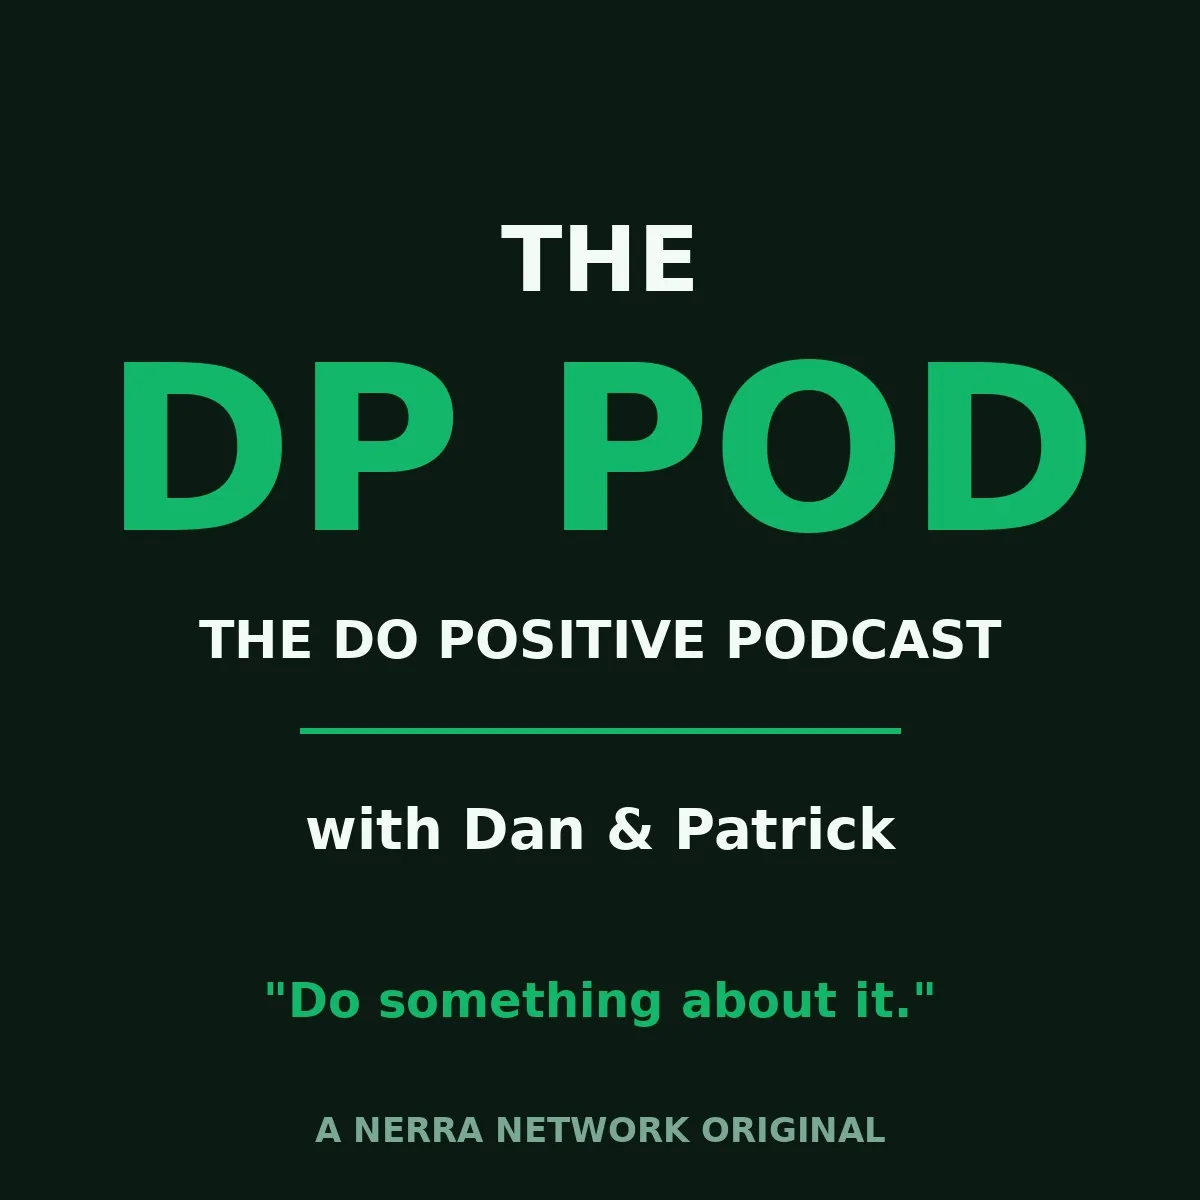
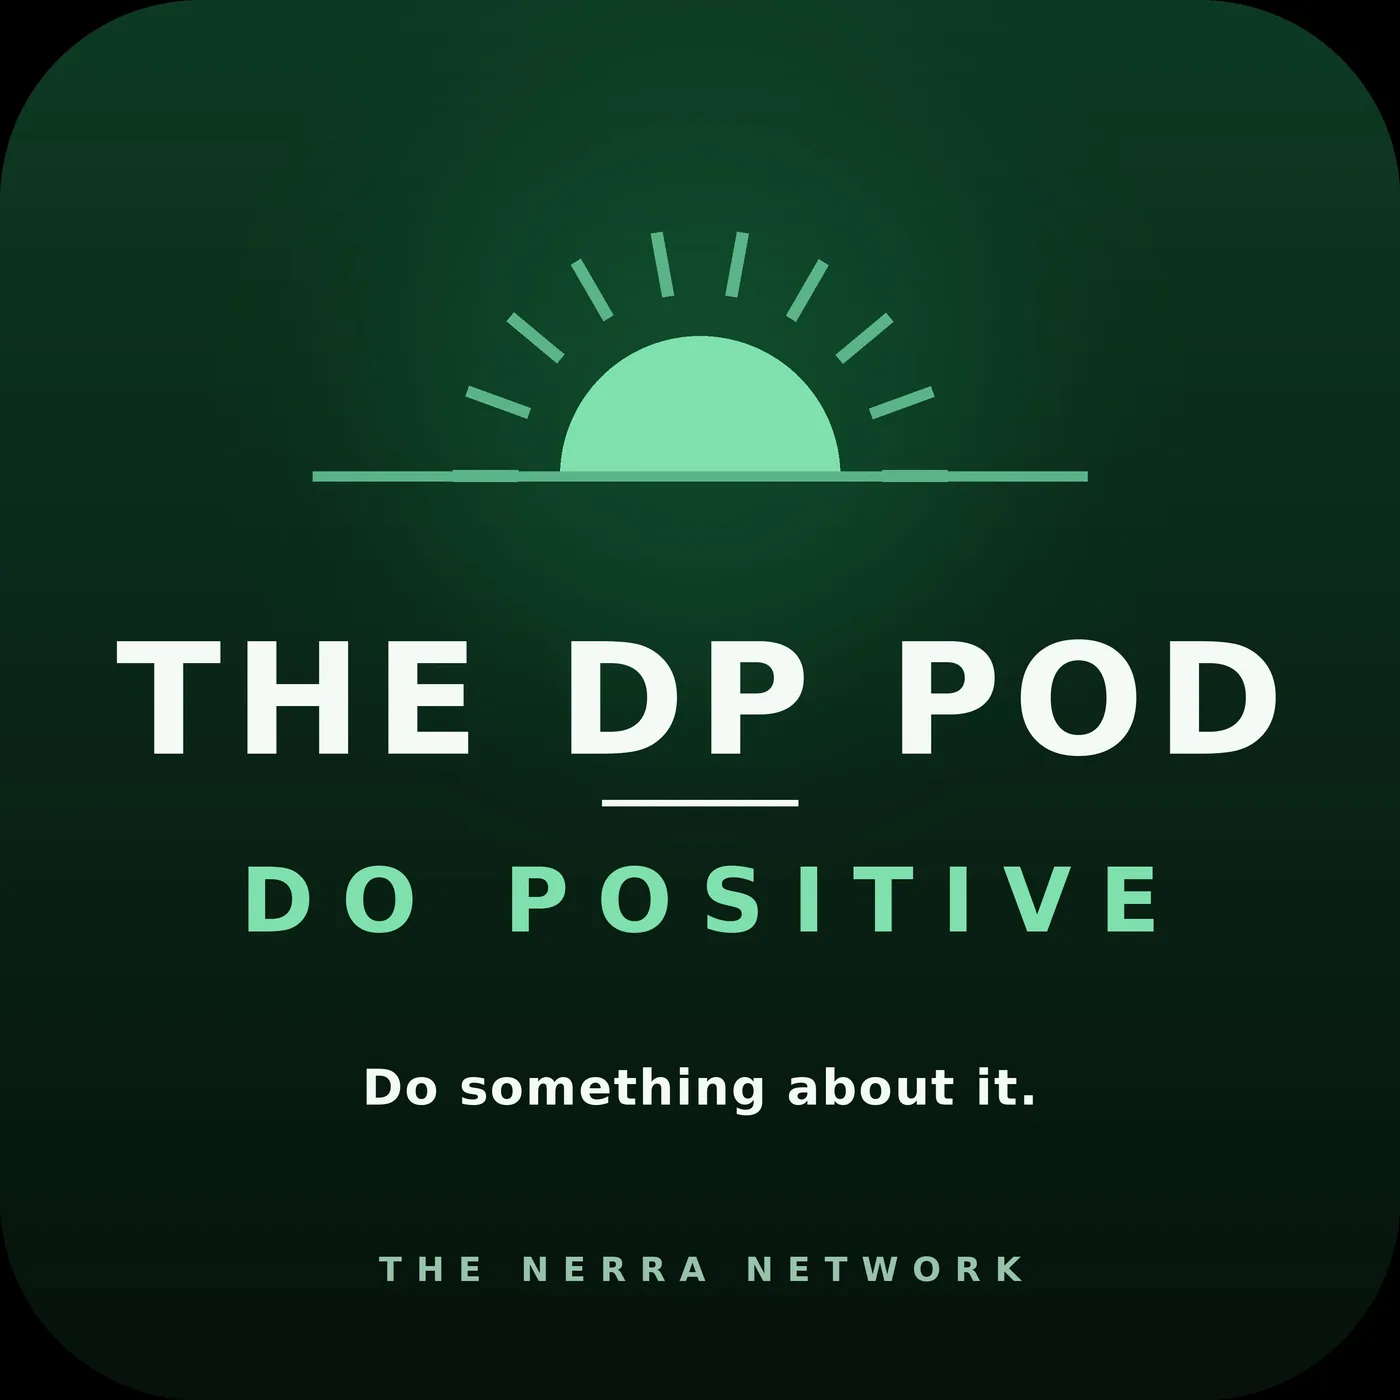
DP Pod: patron-tier monetization + Nerra house-style cover art
Monetization (operator decisions, July 2 2026 — addendum in
docs/dp_pod_market_assessment_2026_07.md): the "free forever" promise is
dropped everywhere (hero eyebrow, membership card chip, pledge fine
print, charter tenet, hero_tagline) — Nerra has to make money and
forever-free forecloses it. Replacement is the belonging-not-access
patron model the research verified (MaxFun co-op, Defector 95%-sub
revenue, RtbC wall+card at $1/mo):

- New Patrons section: Member (free) / Patron $5/mo (Patron Wall,
  numbered patron card, monthly on-air patron roll) / Founding Patron
  $15/mo (locked founding number, monthly Lever vote, first access).
- Nothing paywalled, stated plainly: "Patronage is support, not access"
  and "100% funds the show and the network — that's the honest number."
- Payment rail pluggable via a new `patron_url` registry field
  (shows/network_meta.yaml); empty renders a "Patron doors open with
  Episode 1" placeholder until the operator wires Buttondown paid subs /
  Stripe link / Patreon.
- Charter tenet reworded "Free forever" -> "Free to join"; the kept
  promise is "never by paywall".

Branding: cover art redrawn to the Nerra house style (squircle mask,
brand-green vertical gradient, flat sunrise motif, white "THE DP POD" +
accent "DO POSITIVE", tagline, THE NERRA NETWORK footer — same family
as the SpaceX Daily / First Principles Daily covers), 3000x3000 + webp
variants regenerated; homepage card, nav, og images, and future episode
[…]

diff --git a/thedppod.html b/thedppod.html
@@ -169,6 +169,39 @@
   .dpc-wall .member b { color:var(--dp-gold); font-weight:700; margin-right:0.4rem; }
   .dpc-wall .member.you { border-style:dashed; color:#7ba893; }
 
+  /* Patron tiers */
+  .dpc-tiers { display:grid; grid-template-columns:repeat(3,1fr); gap:1.1rem; margin-top:2rem; }
+  .dpc-tier { background:rgba(18,183,106,0.05); border:1px solid var(--dp-line);
+    border-radius:18px; padding:1.7rem 1.5rem; display:flex; flex-direction:column; gap:0.9rem;
+    text-align:left; }
+  .dpc-tier--featured { border-color:rgba(232,196,104,0.5);
+    background:linear-gradient(180deg, rgba(232,196,104,0.08), rgba(18,183,106,0.05));
+    position:relative; }
+  .dpc-tier--featured .tier-flag { position:absolute; top:-0.7rem; left:50%;
+    transform:translateX(-50%); background:var(--dp-gold); color:#241b06; font-size:0.66rem;
+    font-weight:700; letter-spacing:0.1em; text-transform:uppercase; padding:0.25rem 0.8rem;
+    border-radius:999px; white-space:nowrap; }
+  .dpc-tier .tier-name { font-size:0.72rem; letter-spacing:0.14em; text-transform:uppercase;
+    color:var(--dp-green); font-weight:700; }
+  .dpc-tier--featured .tier-name { color:var(--dp-gold); }
+  .dpc-tier .tier-price { font-family:'Source Serif 4',Georgia,serif; font-size:1.9rem;
+    color:var(--dp-cream); }
+  .dpc-tier .tier-price small { font-size:0.85rem; color:var(--nn-text-muted,#9aa7b8); }
+  .dpc-tier ul { margin:0; padding:0; list-style:none; flex:1; display:flex;
+    flex-direction:column; gap:0.55rem; }
+  .dpc-tier li { font-size:0.88rem; color:var(--nn-text-muted,#9aa7b8); line-height:1.5;
+    padding-left:1.3rem; position:relative; }
+  .dpc-tier li::before { content:"✓"; position:absolute; left:0; color:var(--dp-green);
+    font-weight:700; }
+  .dpc-tier--featured li::before { color:var(--dp-gold); }
+  .dpc-tier .tier-cta { display:block; text-align:center; padding:0.75rem 1rem;
+    border-radius:999px; font-weight:700; font-size:0.92rem; text-decoration:none; }
+  .dpc-tier .tier-cta--free { border:1px solid var(--dp-line); color:var(--dp-cream); }
+  .dpc-tier .tier-cta--paid { background:var(--dp-green); color:#06130b; }
+  .dpc-tier .tier-cta--soon { border:1px dashed rgba(232,196,104,0.45); color:#c9b98a;
+    cursor:default; }
+  .dpc-tiers-fine { margin-top:1.4rem; font-size:0.85rem; color:#7ba893; }
+
   /* Lever board */
   .dpc-levers { display:grid; grid-template-columns:repeat(auto-fit,minmax(280px,1fr));
     gap:1.1rem; margin-top:2rem; }
@@ -233,7 +266,7 @@
   @media (max-width: 860px) {
     .dpc-hero-inner { grid-template-columns:1fr; }
     .dpc-membercard { margin:0 auto; transform:rotate(0); }
-    .dpc-steps, .dpc-grammar, .dpc-hosts { grid-template-columns:1fr; }
+    .dpc-steps, .dpc-grammar, .dpc-hosts, .dpc-tiers { grid-template-columns:1fr; }
     .dpc-ep { flex-wrap:wrap; }
   }
 </style>
@@ -657,7 +690,7 @@
   <section class="dpc-hero">
     <div class="dpc-hero-inner">
       <div>
-        <span class="dpc-eyebrow" style="justify-content:flex-start;">The Do Positive Club · Est. 2026 · Free forever</span>
+        <span class="dpc-eyebrow" style="justify-content:flex-start;">The Do Positive Club · A Nerra Network Original</span>
         <h1>Most media tells you what's wrong.<br>This club <em>does something about it.</em></h1>
         <p class="dpc-hero-desc">
           The DP Pod is a ten-minute daily briefing of genuinely good news in science and
@@ -675,7 +708,7 @@
         <div class="dpc-membercard" aria-label="The Do Positive Club membership card">
           <div class="mc-top">
             <span class="mc-club">The Do Positive Club</span>
-            <span class="mc-free">Free forever</span>
+            <span class="mc-free">Est. 2026</span>
           </div>
           <div class="mc-name">Member: <span>you, hopefully</span></div>
           <div class="mc-bottom">
@@ -742,8 +775,8 @@
     <div class="dpc-section dpc-center">
       <span class="dpc-eyebrow">Membership</span>
       <h2 class="dpc-h2">Take the Do Positive Pledge.</h2>
-      <p class="dpc-sub">Joining isn't a subscription — it's a pledge. It costs nothing and it
-        never will. It just asks something of you.</p>
+      <p class="dpc-sub">Joining isn't a subscription — it's a pledge. It's free, and it asks
+        for something better than money: action.</p>
       <div class="dpc-pledge-card">
         <span class="pl-label">The Pledge</span>
         <p class="dpc-pledge-text">“I'll take ten minutes a day for the good news —
@@ -753,7 +786,7 @@
           <input type="email" name="email" required placeholder="you@example.com" aria-label="Email address">
           <button type="submit">Sign the pledge — join the club</button>
         </form>
-        <p class="dpc-pledge-fine">Free forever. Your email is the membership card — episode
+        <p class="dpc-pledge-fine">Joining is free. Your email is the membership card — episode
           alerts and the club dispatch, no spam, leave anytime.</p>
         <div class="dpc-founding">
           ⭐ <b>Founding Members:</b> everyone who signs before Episode 100 is a Founding
@@ -766,6 +799,56 @@
         <span class="member you"><b>№ 003</b> your name goes here</span>
       </div>
     </div>
+  </section>
+
+  <!-- ================= Patrons ================= --><section class="dpc-section dpc-center" id="patrons">
+    <span class="dpc-eyebrow">Patrons</span>
+    <h2 class="dpc-h2">The club runs on patrons.</h2>
+    <p class="dpc-sub">Every episode is free, and stays free. But Nerra runs without ads,
+      sponsors, or data games — so the club runs on members who chip in. One hundred percent
+      of patron support funds the show and the network that makes it. That's the honest number.</p>
+    <div class="dpc-tiers">
+      <div class="dpc-tier">
+        <span class="tier-name">Member</span>
+        <span class="tier-price">Free</span>
+        <ul>
+          <li>The daily briefing, every day</li>
+          <li>The Do Positive Pledge + episode alerts</li>
+          <li>Your dispatches read on the show</li>
+          <li>A founding number if you join before Episode 100</li>
+        </ul>
+        <a class="tier-cta tier-cta--free" href="#pledge">Take the Pledge</a>
+      </div>
+      <div class="dpc-tier dpc-tier--featured">
+        <span class="tier-flag">Keeps the lights on</span>
+        <span class="tier-name">Patron</span>
+        <span class="tier-price">$5 <small>/ month</small></span>
+        <ul>
+          <li>Everything in Member</li>
+          <li>Your name on the Patron Wall</li>
+          <li>A numbered Do Positive Club patron card</li>
+          <li>Thanked by name in the monthly patron roll on air</li>
+        </ul>
+        
+        <span class="tier-cta tier-cta--soon">Patron doors open with Episode 1</span>
+        
+      </div>
+      <div class="dpc-tier">
+        <span class="tier-name">Founding Patron</span>
+        <span class="tier-price">$15 <small>/ month</small></span>
+        <ul>
+          <li>Everything in Patron</li>
+          <li>Founding Patron number, locked forever</li>
+          <li>Vote on which Lever the club pulls each month</li>
+          <li>First access to whatever the club builds next</li>
+        </ul>
+        
+        <span class="tier-cta tier-cta--soon">Patron doors open with Episode 1</span>
+        
+      </div>
+    </div>
+    <p class="dpc-tiers-fine">Patronage is support, not access — nothing on this page ever
+      moves behind a paywall. Cancel anytime, stay a member forever.</p>
   </section>
 
   <!-- ================= The Lever Board ================= -->
@@ -831,8 +914,9 @@
     <span class="dpc-eyebrow">The Club Charter</span>
     <h2 class="dpc-h2">Five things we'll never break.</h2>
     <div class="dpc-charter" style="text-align:left;">
-      <div class="dpc-tenet"><h4>Free forever</h4>
-        <p>Membership never costs money. The club asks for action, not dollars.</p></div>
+      <div class="dpc-tenet"><h4>Free to join</h4>
+        <p>The daily briefing and membership cost nothing. Patrons keep the club
+        running — by choice, never by paywall.</p></div>
       <div class="dpc-tenet"><h4>Honest numbers</h4>
         <p>Every claim gets its caveat. Every lever states its real cost and payback.</p></div>
       <div class="dpc-tenet"><h4>No guilt</h4>

diff --git a/tests/test_dp_pod_show.py b/tests/test_dp_pod_show.py
@@ -119,9 +119,25 @@ class TestClubPage:
         # Mechanic 2: constrained Dispatch grammar with a real submission path
         assert "mailto:" in html and "Do%20Positive%20Dispatch" in html
         assert "The honest numbers" in html
-        # Mechanic 3/4: starter levers pre-launch + free-forever charter
-        assert "Free forever" in html
+        # Mechanic 3/4: starter levers pre-launch; charter promises free
+        # JOINING, never "free forever" (operator decision, July 2026 —
+        # patron tiers fund Nerra; episodes stay un-paywalled)
+        assert "Free to join" in html
+        assert "Free forever" not in html
         assert "Do something about it" in html
+
+    def test_patron_tiers_present_with_placeholder_until_url_set(self):
+        import generate_html as gh
+
+        html = (PROJECT_ROOT / "thedppod.html").read_text(encoding="utf-8")
+        # Belonging-framed patronage (MaxFun/Defector/RtbC model): support,
+        # not access — three tiers, nothing paywalled.
+        assert "The club runs on patrons" in html
+        assert "Become a Patron" in html or "Patron doors open" in html
+        assert "Founding Patron" in html
+        assert "paywall" in html  # the "never moves behind a paywall" promise
+        # Registry carries the pluggable checkout URL field.
+        assert "patron_url" in gh.NETWORK_SHOWS["dp_pod"]
 
     def test_lever_board_extracts_from_digest(self, tmp_path, monkeypatch):
         import generate_html as gh

diff --git a/docs/dp_pod_market_assessment_2026_07.md b/docs/dp_pod_market_assessment_2026_07.md
@@ -141,6 +141,36 @@ compromise.
   only becomes a relationship when something arrives; recommend enabling
   once Ep1 ships so joining triggers the welcome + daily episode email.
 
+## 5a. Monetization addendum (operator decision, July 2 2026)
+
+The launch page's "free forever" promise was dropped — Nerra has to make
+money eventually, and promising forever-free forecloses the option. The
+replacement model (operator-selected from the three researched options):
+
+- **Patron tiers — belonging, not access.** Member (free: pledge, daily
+  briefing, dispatches, founding number) / **Patron $5/mo** (name on the
+  Patron Wall, numbered patron card, monthly on-air patron roll) /
+  **Founding Patron $15/mo** (locked founding number, monthly vote on which
+  Lever the club pulls, first access to what the club builds next). Nothing
+  is ever paywalled — this is the exact posture the verified evidence
+  supports (Maximum Fun's co-op CTA; Defector's 10k day-one belonging-framed
+  subscriptions and ~95%-subscription revenue; Reasons to be Cheerful
+  selling the wall + card at $1/mo).
+- **100% funds Nerra**, stated plainly on the page ("that's the honest
+  number") — no charity slice at launch; the Fix The News 30%-to-charity
+  model can be layered on later when revenue justifies it.
+- **Payment rail deferred**: the tier cards read from a `patron_url`
+  registry field (`shows/network_meta.yaml`); empty = "Patron doors open
+  with Episode 1" placeholder. Recommended rail when ready: Buttondown paid
+  subscriptions (one system for membership email + patronage); Stripe
+  payment links or Patreon plug into the same field.
+- Charter tenet reworded **"Free forever" → "Free to join"**; the promise
+  that survives is "never by paywall", which the model genuinely keeps.
+
+New promises the show must eventually honor (operator ops, post-revenue):
+the Patron Wall, numbered patron cards, the monthly on-air patron roll, and
+the Founding-Patron lever vote.
+
 ## 6. Sources (all fetched + adversarially verified July 2026)
 
 - https://fixthenews.com/
